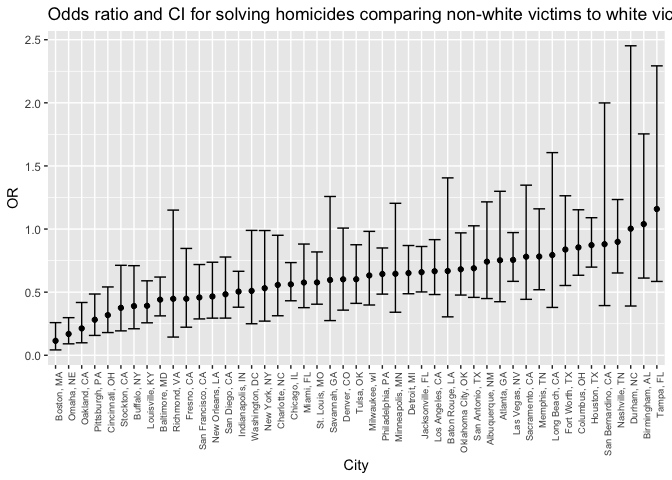
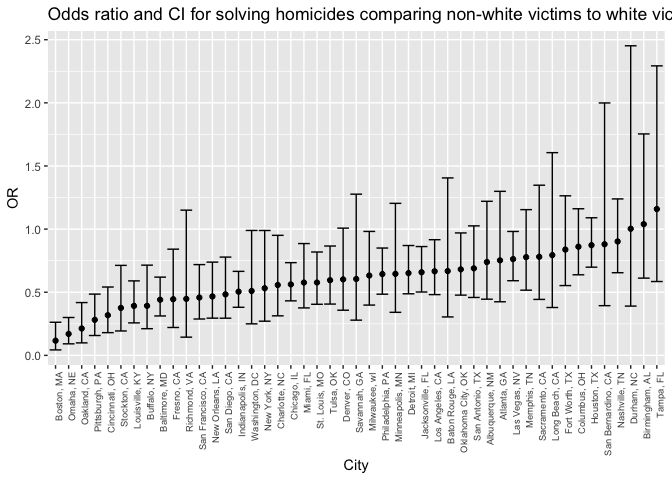
Exclude observations with Unknown victim_race

diff --git a/p8105_hw6_xy2395.md b/p8105_hw6_xy2395.md
@@ -18,6 +18,7 @@ homicide_df =
   # Omit some cities
   filter(!city_state %in% c('Dallas, TX', 'Phoenix, AZ', 'Kansas City, MO', 'Tulsa, AL')) %>% 
   # Modifiy victim_race to have categories white and non-white, with white as the reference category. 
+  filter(victim_race != "Unknown") %>% 
   mutate(victim_race = if_else(victim_race == "White", "white", "non-white"),
          victim_race = fct_relevel(victim_race, "white")) %>%
   # Be sure that victim_age is numeric
@@ -287,3 +288,7 @@ summary(fit_1)
     ## Residual standard error: 272.7 on 4329 degrees of freedom
     ## Multiple R-squared:  0.7172, Adjusted R-squared:  0.7164 
     ## F-statistic: 914.9 on 12 and 4329 DF,  p-value: < 2.2e-16
+
+``` r
+weight_df[is.na(weight_df)] <- "0"
+```
